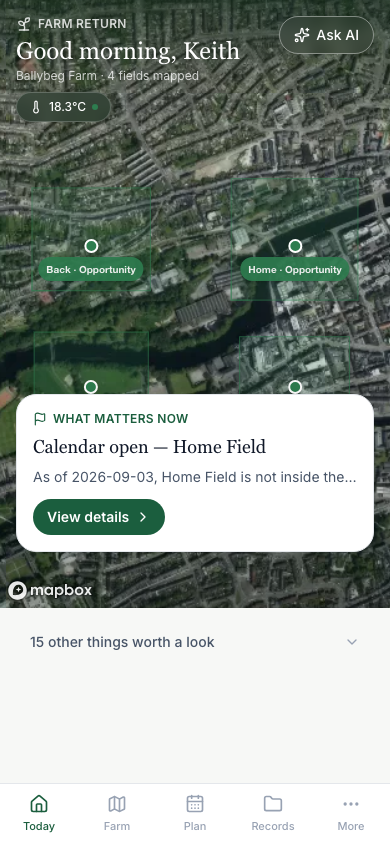
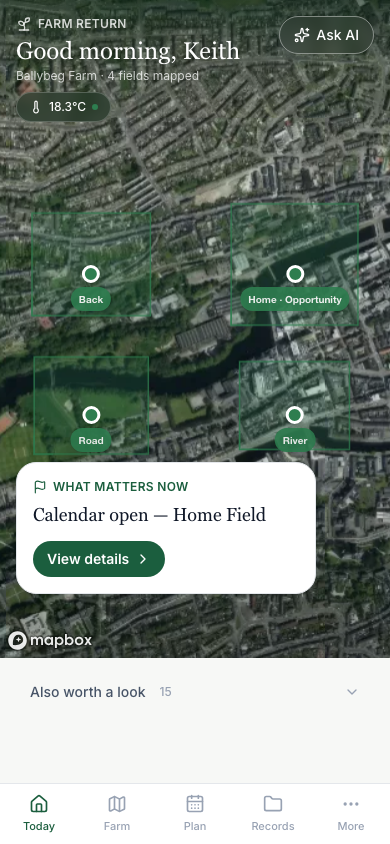
Phase V1 round 7: drop hero description, quiet repeated status labels
Codex visual audit round 6 (fidelity 5.8/10, still REDESIGN REQUIRED,
dashboard drift now LOW — down from HIGH at round 1):

- High: card still "spans almost the entire mobile width" even at
  lg:max-w-md (mobile has no lg: breakpoint to cap it). A single
  max-w-[300px] now applies at every size.
- Medium: every description length/clamp tried on the light PromptCard
  still visibly truncated real regulatory copy mid-phrase. Dropped
  entirely from the light variant — title + one CTA, matching how
  little text the reference's own card actually carries; full text
  stays one tap away in the real Expanded Prompt sheet. Plan's dark
  variant is unchanged.
- Medium: repeating "Opportunity" on every marker read as weak
  differentiation from the one primary action. A field's status word
  now shows only on the field the leading Prompt is actually about;
  every other real field still shows its name, without a redundant
  repeated caption.
- Medium: field boundaries "faint and visually incoherent" (round 5
  dialed them down after round 4's opposite "GIS overlay" finding) —
  nudged back up (fill 0.14->0.2, unselected line 1->1.5px/0.55->0.75
  opacity) without returning to the earlier solid-white treatment;
  marker dot enlarged 14px->18px.
- Low: "15 other things worth a look" read as "a large hidden feed."
  Reworded to "Also worth a look" with the count trailing as a quiet
  badge instead of leading the sentence.
[…]

diff --git a/src/app/(app)/today/page.tsx b/src/app/(app)/today/page.tsx
@@ -128,6 +128,13 @@ export default function TodayPage() {
   const fieldStatusLabel = (fieldId: string) => {
     const leading = leadingFieldPrompt(fieldId);
     if (!leading) return undefined;
+    // Codex audit round 6: several fields sharing the same real status
+    // ("Opportunity" on every pin) read as weak differentiation against
+    // the one primary action. A status word now only appears on the
+    // field the leading "What matters now" Prompt is actually about —
+    // every other real field still shows its name, just without a
+    // repeated caption that adds no new information at a glance.
+    if (fieldId !== primaryPrompt?.fieldId) return undefined;
     switch (leading.basis.status) {
       case "LEGAL_PROHIBITION":
         return "Restricted";
@@ -193,7 +200,7 @@ export default function TodayPage() {
           onSelectField={(fieldId) => router.push(`/fields?field=${fieldId}`)}
           center={farm.location.centroid}
           plain
-          className="h-[72vh] min-h-[460px] lg:h-[460px]"
+          className="h-[78vh] min-h-[500px] lg:h-[480px]"
         >
           {/* Codex audit round 3 (Phase V1): "dense HUD-like pills" +
               "dark and tactical despite the light-theme rebuild" —
@@ -229,14 +236,15 @@ export default function TodayPage() {
             </div>
           </div>
 
-          {/* Codex audit round 3: full-width covered most of the map and
-              several markers on wide viewports. Capped to a compact
-              floating card (`lg:max-w-md`) instead of spanning the whole
-              surface, so the farm stays visible around it, not just
-              above it. */}
-          <div className="absolute inset-x-0 bottom-0 bg-gradient-to-t from-black/25 to-transparent px-4 pb-14 pt-10">
+          {/* Codex audit rounds 3 and 6: full-width covered most of the
+              map (desktop) and still "spans almost the entire mobile
+              width" even capped at lg:max-w-md (mobile has no lg:
+              breakpoint). A single max-w-[300px] applies at every size
+              now, so the farm stays visible around the card everywhere,
+              not just on desktop. */}
+          <div className="absolute inset-x-0 bottom-0 bg-gradient-to-t from-black/25 to-transparent px-4 pb-16 pt-10">
             {!mounted ? (
-              <div className="animate-pulse rounded-fr-card bg-fr-surface p-5 shadow-fr-card lg:max-w-md">
+              <div className="animate-pulse rounded-fr-card bg-fr-surface p-5 shadow-fr-card max-w-[300px]">
                 <div className="h-5 w-40 rounded bg-fr-surface-alt" />
                 <div className="mt-3 h-4 w-full rounded bg-fr-surface-alt" />
               </div>
@@ -245,10 +253,10 @@ export default function TodayPage() {
                 prompt={primaryPrompt}
                 onViewDetails={() => setOpenPrompt(primaryPrompt)}
                 variant="light"
-                className="lg:max-w-md"
+                className="max-w-[300px]"
               />
             ) : (
-              <div className="rounded-fr-card border border-fr-border bg-fr-surface p-5 shadow-fr-card lg:max-w-md">
+              <div className="rounded-fr-card border border-fr-border bg-fr-surface p-5 shadow-fr-card max-w-[300px]">
                 <p className="text-sm text-fr-ink-600">
                   {fields.length === 0
                     ? "Map a field to start seeing real Prompts here."
@@ -293,8 +301,15 @@ export default function TodayPage() {
               onClick={() => setSecondaryOpen(true)}
               className="flex w-full items-center justify-between gap-3 px-3 py-2 text-left"
             >
-              <span className="text-sm font-medium text-fr-ink-600">
-                {secondaryPrompts.length} other {secondaryPrompts.length === 1 ? "thing" : "things"} worth a look
+              {/* Codex audit round 6: leading with the raw count read as
+                  "a large hidden feed," working against the one-action
+                  concept. The count now trails as a quiet badge, not the
+                  first thing read. */}
+              <span className="flex items-center gap-2 text-sm font-medium text-fr-ink-600">
+                Also worth a look
+                <span className="rounded-full bg-fr-surface-alt px-1.5 py-0.5 text-xs text-fr-ink-400">
+                  {secondaryPrompts.length}
+                </span>
               </span>
               <ChevronDown className="size-4 text-fr-ink-400" />
             </button>

diff --git a/src/components/next/PromptCard.tsx b/src/components/next/PromptCard.tsx
@@ -57,15 +57,14 @@ export function PromptCard({
         What matters now
       </span>
       <p className={cn("font-display leading-snug", light ? "text-lg text-fr-ink-900" : "text-xl text-white")}>{prompt.title}</p>
-      {/* Codex audit round 5 (Phase V1): a taller multi-line description
-          made this overlay card "excessively tall," and any clamp still
-          visibly truncated real regulatory copy mid-phrase regardless of
-          length. Light variant keeps it to one concise line — short and
-          clean rather than long and cut off — full text is one tap away
-          in the real Expanded Prompt sheet ("View details" below). */}
-      <p className={cn("mt-1.5 text-sm", light ? "line-clamp-1 text-fr-ink-600" : "line-clamp-3 text-white/70")}>
-        {prompt.description}
-      </p>
+      {/* Codex audit rounds 5-6 (Phase V1): every description length or
+          clamp tried on the light variant still visibly truncated real
+          regulatory copy mid-phrase — the description is dropped from
+          this compact overlay entirely (title + one CTA, matching how
+          little text the reference's own "what matters now" card
+          actually carries); the full text is one tap away in the real
+          Expanded Prompt sheet. The dark variant (Plan) is unchanged. */}
+      {light ? null : <p className="mt-1.5 line-clamp-3 text-sm text-white/70">{prompt.description}</p>}
       <button
         type="button"
         onClick={onViewDetails}

diff --git a/src/components/farm/MapHero.tsx b/src/components/farm/MapHero.tsx
@@ -163,7 +163,7 @@ export function MapHero({
           // Codex audit round 5 (Phase V1): boundaries should be visually
           // subordinate to the pin markers now carrying the real place/
           // status information — a faint tint rather than a strong fill.
-          "fill-opacity": 0.14,
+          "fill-opacity": 0.2,
         },
       });
       map.addLayer({
@@ -177,8 +177,8 @@ export function MapHero({
             ...Object.entries(toneColor).flatMap(([tone, color]) => [tone, color]),
             "#ffffff",
           ],
-          "line-width": ["case", ["==", ["get", "fieldId"], selectedFieldId ?? ""], 2.5, 1],
-          "line-opacity": ["case", ["==", ["get", "fieldId"], selectedFieldId ?? ""], 0.9, 0.55],
+          "line-width": ["case", ["==", ["get", "fieldId"], selectedFieldId ?? ""], 2.5, 1.5],
+          "line-opacity": ["case", ["==", ["get", "fieldId"], selectedFieldId ?? ""], 0.9, 0.75],
         },
       });
       if (onSelectFieldRef.current) {
@@ -238,7 +238,7 @@ export function MapHero({
       if (selected) el.style.transform = "scale(1.1)";
 
       const dot = document.createElement("span");
-      dot.className = "block size-3.5 rounded-full border-2 border-white shadow-md";
+      dot.className = "block size-[18px] rounded-full border-[3px] border-white shadow-md";
       dot.style.backgroundColor = toneBg[tone];
       el.appendChild(dot);
 
